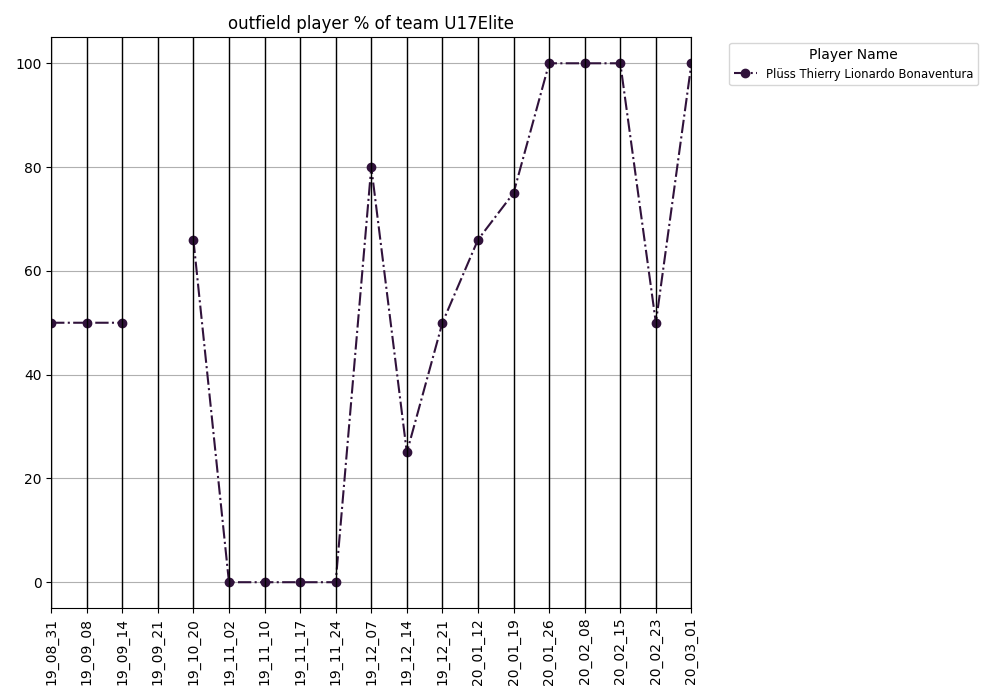
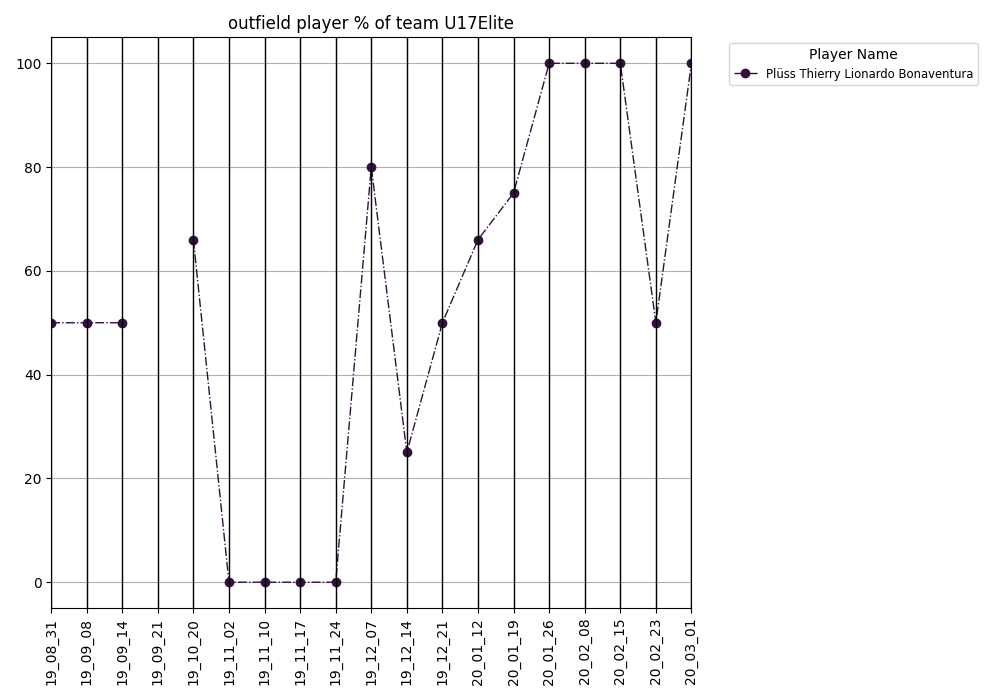
testing cyclers

Changed region(s): [[0.651, 0.42, 0.682, 0.45], [0.403, 0.6, 0.434, 0.63]]

diff --git a/plotterProgress.py b/plotterProgress.py
@@ -4,12 +4,15 @@ from pandas.plotting import parallel_coordinates
 import matplotlib.pyplot as plt
 from matplotlib.font_manager import FontProperties
 import options
-import cmasher as cmr
+from cycler import cycler
 
 data_dir = 'playerProgress_data'
 teams_seasons = options.teams_seasons
-pride = cmr.pride
 print(teams_seasons)
+
+
+plt.rc('lines', linewidth=0.5)
+plt.rc('axes', prop_cycle=(cycler('marker', ['o','v','*','d']))+ cycler('linestyle', ['-', '--', ':', '-.']) )
 
 def main():
     folders = os.listdir(data_dir)
@@ -247,7 +250,7 @@ def plotOutfield(input_dataframe,stat,folder):
 
     plt.figure(figsize=(10, 5))
     input_dataframe = input_dataframe.sort_values(by = 'SPIELER')
-    output = parallel_coordinates(input_dataframe,'SPIELER', colormap=pride, marker='o', linestyle='-.')
+    output = parallel_coordinates(input_dataframe,'SPIELER', colormap='turbo')
     plt.title(f'outfield player {stat} of team {get_key(folder)}')
     plt.legend(title='Player Name', bbox_to_anchor=(1.05, 1), loc='upper left', prop=fontP)
     plt.xticks(rotation=90)
